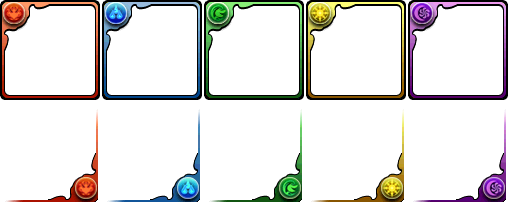
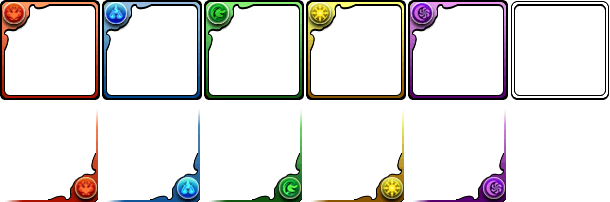
Image Pipeline Fixes

Changed region(s): [[0.1476, 0.0, 1.0, 0.505], [0.0, 0.5644, 1.0, 1.0], [0.0, 0.0, 0.0886, 0.4752]]

diff --git a/etl/pad/api/player_data.py b/etl/pad/api/player_data.py
@@ -92,7 +92,7 @@ class CardEntry(pad_util.Printable):
 
 
 class FriendEntry(pad_util.Printable):
-    BASE_SIZE = 17
+    BASE_SIZE = 16
 
     def __init__(self, row_values):
         self.base_values = row_values[0:FriendEntry.BASE_SIZE]
@@ -102,7 +102,7 @@ class FriendEntry(pad_util.Printable):
         self.leader_2 = FriendLeader(
             row_values[FriendEntry.BASE_SIZE + 1 * FriendLeader.SIZE: FriendEntry.BASE_SIZE + 2 * FriendLeader.SIZE])
 
-        if len(row_values) > FriendEntry.BASE_SIZE + 2 * FriendLeader.SIZE:
+        if len(row_values) > FriendEntry.BASE_SIZE + 2 * FriendLeader.SIZE + 2:
             self.leader_3 = FriendLeader(
                 row_values[
                 FriendEntry.BASE_SIZE + 2 * FriendLeader.SIZE: FriendEntry.BASE_SIZE + 3 * FriendLeader.SIZE])

diff --git a/etl/pad/api/pad_api.py b/etl/pad/api/pad_api.py
@@ -397,7 +397,7 @@ class PadApiClient(object):
         result_json = r.json()
         response_code = result_json.get('res', 0)
         if response_code != 0:
-            raise Exception('Bad server response: {} ({})'.format(response_code, RESPONSE_CODES.get(response_code, '???'))
+            raise Exception('Bad server response: {} ({})'.format(response_code, RESPONSE_CODES.get(response_code, '???')))
         return result_json
 
     def get_egg_machine_page(self, gtype, grow):

diff --git a/media_pipelines/image_pull/PADPortraitsGenerator.py b/media_pipelines/image_pull/PADPortraitsGenerator.py
@@ -33,7 +33,7 @@ output_dir = args.output_dir
 templates_img = Image.open(card_templates_file)
 attr_imgs = {}
 sattr_imgs = {}
-for idx, t in enumerate(['r', 'b', 'g', 'l', 'd']):
+for idx, t in enumerate(['r', 'b', 'g', 'l', 'd', 'x']):
     pwidth = 100
     pheight = 100
     xstart = idx * (pwidth + 2)
@@ -58,6 +58,7 @@ attr_map = {
     2: 'g',
     3: 'l',
     4: 'd',
+    6: 'x'
 }
 
 server = Server.from_str(args.server)
